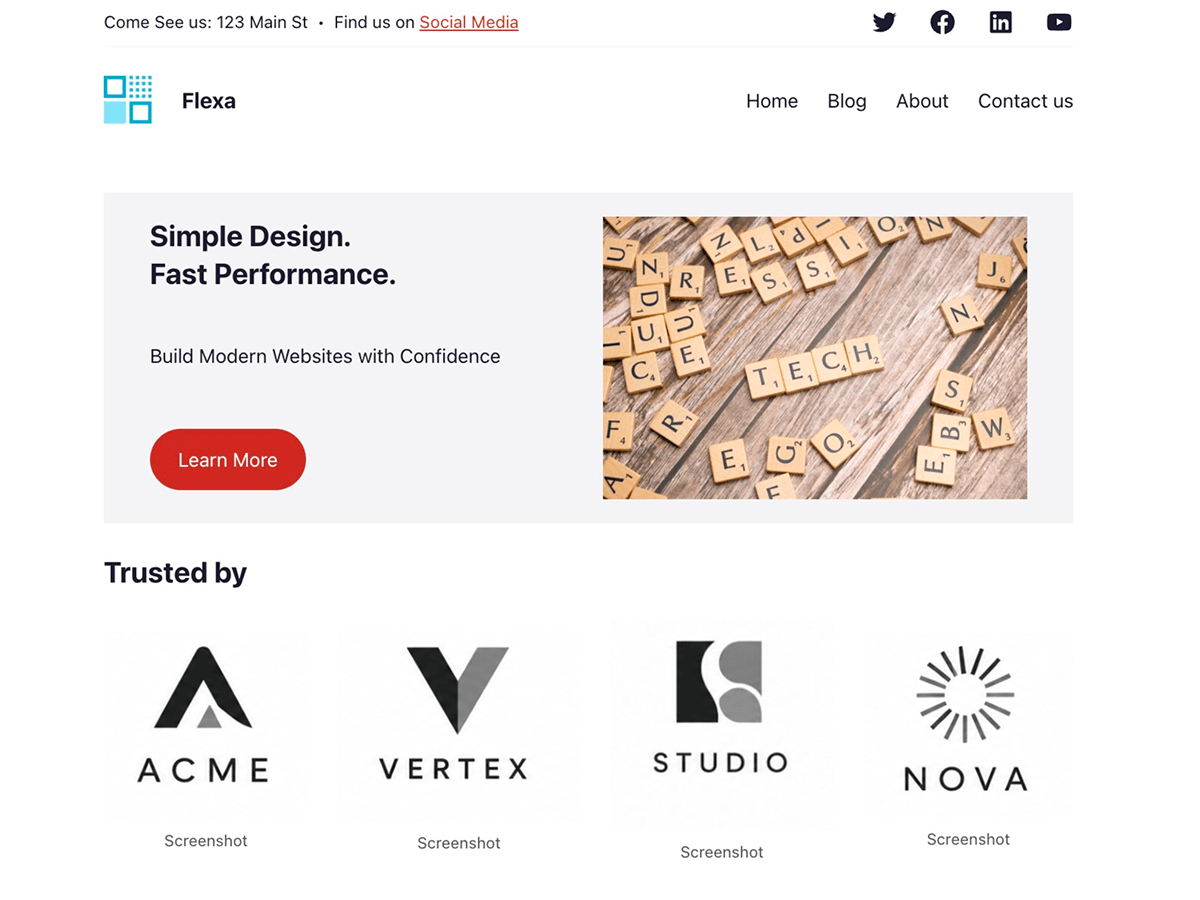
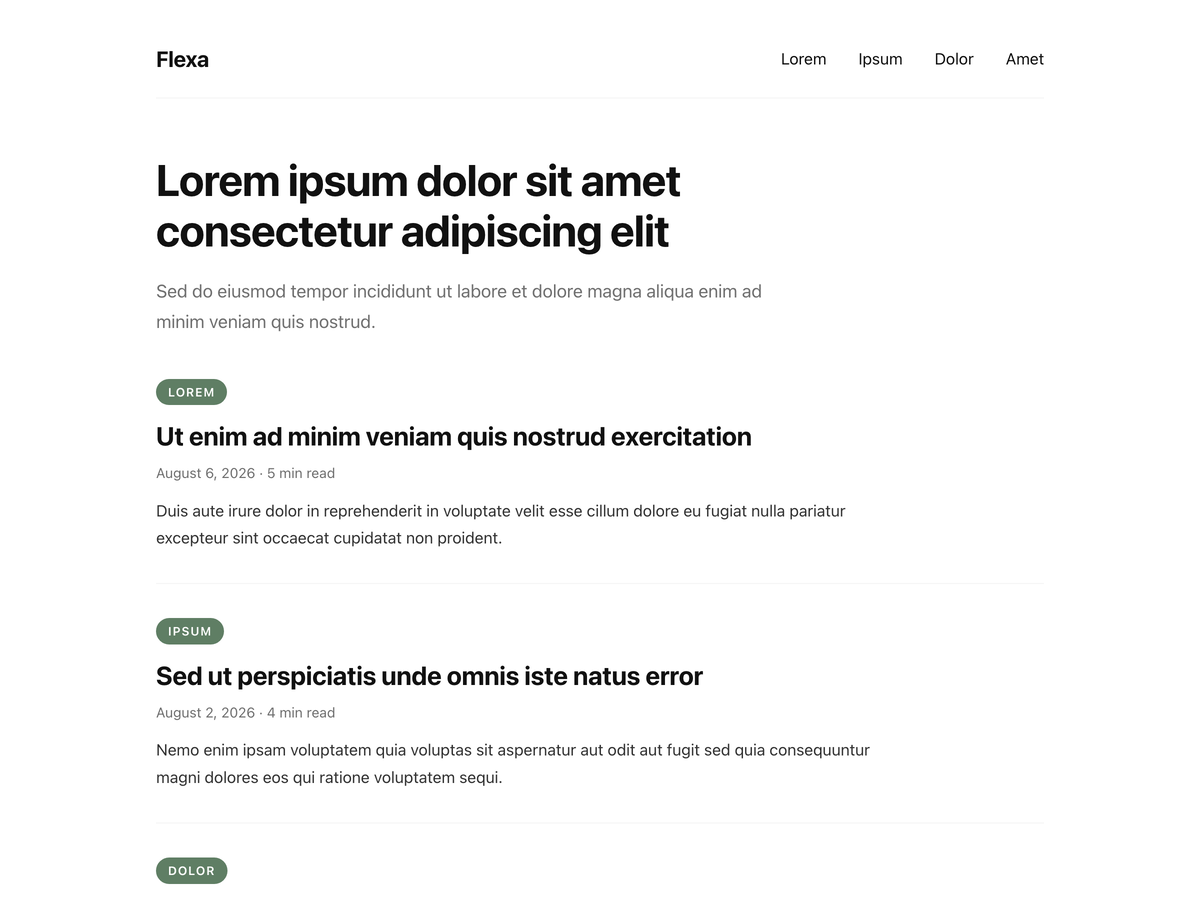
Change screenshot

diff --git a/style.css b/style.css
@@ -1,7 +1,7 @@
 /*
 Theme Name:        Flexa
 Description:       A minimal block starter theme. Flexa gives you a clean foundation - white, black, and one accent color - so you can build without clearing away what someone else put there first.
-Version:           1.1.0
+Version:           1.1.1
 Author:            flexatech
 Author URI:        https://profiles.wordpress.org/flexatech/
 Tags:              blog, one-column, block-patterns, full-site-editing, block-styles, editor-style, style-variations, custom-colors, featured-images, translation-ready
@@ -10,8 +10,8 @@ Domain Path:       /languages
 Requires at least: 6.5
 Tested up to:      7.0
 Requires PHP:      7.4
-License: GNU General Public License v3 or later
-License URI: https://www.gnu.org/licenses/gpl-3.0.html
+License: GNU General Public License v2 or later
+License URI: https://www.gnu.org/licenses/gpl-2.0.html
 
 This theme, like WordPress, is licensed under the GPL.
 */
